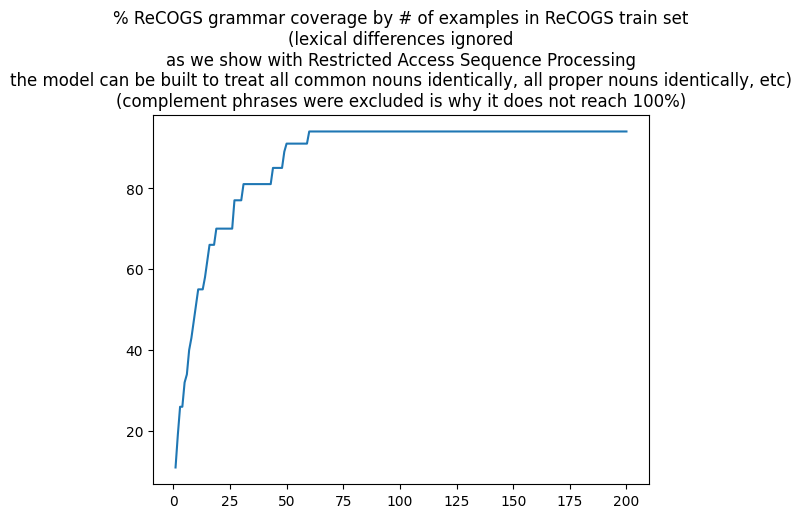
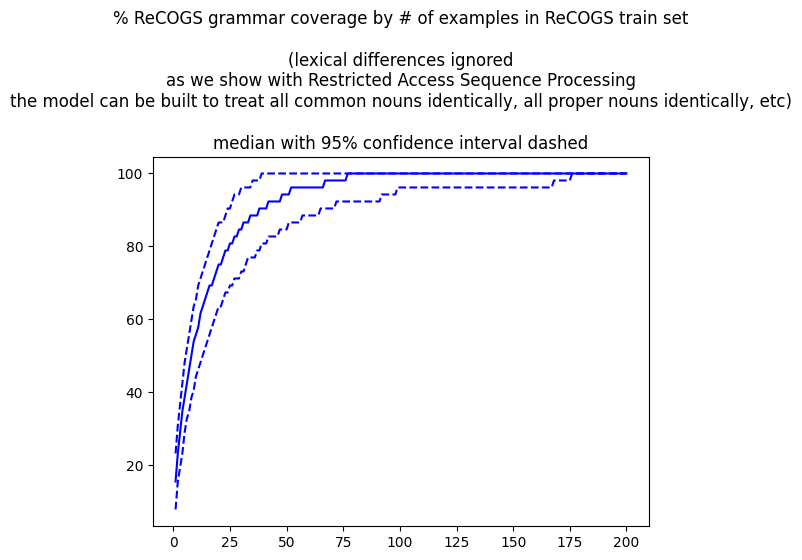
Update README.md following PR#7 and an updated grammar coverage figure

diff --git a/README.md b/README.md
@@ -10,26 +10,27 @@ Programs in this folder can be interpreted using Weiss et al 2021's RASP interpr
 
 **Update: There is an associated unpublished research paper which is in early stages at https://raw.githubusercontent.com/willy-b/RASP-for-ReCOGS/main/rasp-for-recogs_pos-wbruns-2024-draft.pdf .**
 
+**Copies of evaluation results notebooks and a comparison with Wu et al 2023 Transformer baselines trained from scratch are also checked in at https://github.com/willy-b/RASP-for-ReCOGS/tree/main/supplemental_data#analysis-and-evaluation-notebooks .**
+
 This section describes a RASP model under development to perform the ReCOGS_pos task (see Wu et al 2023, "ReCOGS: How Incidental Details of a Logical Form Overshadow an Evaluation of Semantic Interpretation", https://arxiv.org/abs/2303.13716 for task description) to try to prove-by-construction that a Transformer can learn it in a compositional, systematic, length generalizing way and try to understand why some errors are observed.
 
-You can run a demo and see the autoregressive output 
+You can run a demo and see the autoregressive output on the training set
 
-(or just visit https://colab.research.google.com/drive/1FS4tucZ92YR6VmhSva9pJekm2X7nnHWP?usp=sharing  )
+(or just visit e.g. https://colab.research.google.com/drive/1q-24YGWYX2zo7N50q69Y8jg5Kcb_0ph4?usp=sharing for a full dev set evaluation )
 
 ```
 git clone https://github.com/willy-b/learning-rasp.git
-python recogs_examples_in_rasp.py 
+cd learning-rasp
+python recogs_examples_in_rasp.py # runs only 5 examples on training set by default, you can run more examples or evaluate on dev/test/gen by using commandline arguments (see file)
 ```
 
-The script will show performance on Wu et al 2023 ReCOGS_pos data by default, run with "--use_dev_split", "--use_gen_split" , or "--use_test_split" to see it run on those and give a running score every row.
+The script will show performance on Wu et al 2023 ReCOGS_pos training data by default, run with "--use_dev_split", "--use_gen_split" , or "--use_test_split" to see it run on those and give a running score every row.
 
 ![](sentences_and_lfs_and_lf_graph.png)
 
-For ReCOGS, intending to perform well on Semantic Exact Match, we took a simple, flat, non-tree, non-recursive (except for decoder loop) approach which was able to get 100% on the full test set* first try (  word-level token Restricted Access Sequence Processing solution: https://github.com/willy-b/learning-rasp/blob/e97282e18b07004bf714b5c9bb5883090a2ff8e3/word-level-pos-tokens-recogs-style-decoder-loop.rasp ).
+For ReCOGS, intending to perform well on Semantic Exact Match, we took a simple, flat, non-tree, non-recursive (except for decoder loop) approach which was able to get 100% on the full test set first try: https://colab.research.google.com/drive/1N7F-nc9GVnoC_9dBVdNT02SBiBcMbgy-?usp=sharing .
 
-(* complement phrase examples were not tested in first run as that was omitted from the grammar in the first version of this project, but has been successfully added in upcoming https://github.com/willy-b/learning-rasp/pull/7 with first test run going now, see link on PR.)
-
-(String Exact Match is supported in upcoming https://github.com/willy-b/learning-rasp/pull/7 , where a semantically irrelevant reordering of v_inf_taking_to_v_inf that would pass Semantic Exact Match but not String Exact Match was updated in the RASP so that EM could be reported when https://github.com/willy-b/learning-rasp/pull/7 merges.)
+We also report String Exact Match since https://github.com/willy-b/learning-rasp/pull/7 (Semantic Exact Match is more forgiving, ignoring reorderings of the logical form that do not change the semantics).
 
 We took the RASP native sequence tokens, and first did a Transformer learned-embedding compatible operation and created 1 part-of-speech and 4 extra verb-type sequences (because each word in the COGS vocabulary may actually serve multiple POS roles; up to four different verb types as in the case of "liked" 
 
@@ -68,9 +69,8 @@ use the full details put in Lark format by ( Klinger et al 2024 , https://arxiv.
 and convert it ourselves to a format compatible with ( Zeller et al 2023, https://www.fuzzingbook.org/html/GrammarCoverageFuzzer.html ) and use their TrackingGrammarCoverageFuzzer to generate the set of all expansions of the COGS grammar. 
 
 Note that grammar coverage lets us consider after each training example what could possibly have been learned about the grammar.
-For example, we can use this to see that before we reach 75 examples of the ReCOGS training set, 100% grammar coverage has been reached (lexical differences ignored (we treat all words within a POS identically); and complement phrases omitted in the first version) ( Zeller et al 2023, https://www.fuzzingbook.org/html/GrammarCoverageFuzzer.html ) (noting that if the model is not capable of learning certain expansions in the grammar such as `np_det pp np -> np_pp -> np`, it may need to see more variations to memorize individual cases instead):
+For example, we can use this to see that by 55 examples of the ReCOGS training set (unshuffled, no augmentations) or 77 (median; 95% confidence interval, n=1000 random shuffles: 39 to 161) examples of the ReCOGS training set (shuffled, no augmentations), 100% grammar coverage is reached (lexical differences ignored) (we treat all words within a POS identically) (for description of grammer coverage see Zeller et al 2023, https://www.fuzzingbook.org/html/GrammarCoverageFuzzer.html ) (noting that if the model is not capable of learning certain expansions in the grammar such as `np_det pp np -> np_pp -> np`, as is actually true for our RASP model and we hypothesis for the Wu et al 2023 baseline Transformer it will need to see more variations to memorize individual cases instead):
 
-(update: complement phrases are included in upcoming PR https://github.com/willy-b/learning-rasp/pull/7 )
 
 ![](grammar_coverage_by_number_of_recogs_training_examples_lexical_differences_ignored.png)
 
@@ -78,7 +78,10 @@ This confirms that if one already knows parts of speech and verb types for words
 
 Thus, we can be more efficient than using the ReCOGS training set for our RASP model built by hand since we our solution uses a manual embedding via a dictionary mapping words to part-of-speech and verb-type, that ensures all words within a part of speech are treated identically (in real world learned embeddings/pretraining or a GloVe embedding would be used to solve this step; again (Tenney et al 2019, https://arxiv.org/abs/1905.05950 ) confirm BERT, a pre-trained Transformer model in wide use, has part-of-speech information available at the earliest layers.).
 
-We generated 20 sentences which cover 100\% of the COGS input grammar ( Zeller et al 2023, https://www.fuzzingbook.org/html/GrammarCoverageFuzzer.html ) excluding complement phrases (those are supported in upcoming https://github.com/willy-b/learning-rasp/pull/7 ) under those constraints (under the context free grammar, tree based assumption which turns out to be incorrect just for prepositional phrases):
+We generated 21 sentences which cover 100\% of the COGS input grammar ( Zeller et al 2023, https://www.fuzzingbook.org/html/GrammarCoverageFuzzer.html ) under those constraints (under the context free grammar, tree based assumption which turns out to be incorrect just for prepositional phrases):
+
+(note that if the prepositional phrase and complement phrase cases were added into one or two of 19 base grammar form examples only 19 total examples are actually needed, but we keep the recursive grammar parts separated for clarity here)
+
 ```
 "the girl was painted", 
 "a boy painted",
@@ -101,6 +104,7 @@ We generated 20 sentences which cover 100\% of the COGS input grammar ( Zeller e
 "the car was sold to the customer",
 
 "a boy painted the girl in a house"
+"the girl noticed that a boy painted the girl"
 ```
 
 The first 19 of those sentences are present in our RASP program code ( https://github.com/willy-b/learning-rasp/blob/
@@ -109,7 +113,7 @@ For each of these sentences we add a group of RASP operations corresponding to a
 
 Those 19 examples reflect the only rules for handling non-prepositional grammar rules. 
 
-To handle prepositional phrases in a flat solution, we find it necessary even on the training data to add a rule that ignores noun phrases preceded by a prepositonal phrase (ignore "pp np") when searching for noun indexes to report in relationships (agent, theme, recipient, etc), and we loosen verb type templates to allow a gap for any prepositional phrase to be inserted (this was not done in every possible case manually within 2 week project work period which is why we do not get 100\% in that one split, see next results section). We shall see encountering this issue in RASP and the grammar analysis suggesting a non-tree solution is learned by the Transformer appears to lead us to be able to predict 100% of a certain category of errors a baseline Wu et al 2023 ( https://arxiv.org/abs/2303.13716 ) Encoder-Decoder Transformer makes (in a paper in a class under review) present in our RASP solution before adding the rule to ignore "pp np" (based on training examples but biased to learn it generally) (the RASP model got 100% on the ReCOGS_pos test set first try, separate notebook public but not yet linked here, though you can use the python script in this folder to run that test yourself as well).
+To handle prepositional phrases in a flat solution, we find it necessary even on the training data to add a rule that ignores noun phrases preceded by a prepositonal phrase (ignore "pp np") when searching for noun indexes to report in relationships (agent, theme, recipient, etc), and we loosen verb type templates to allow a gap for any prepositional phrase to be inserted (this was not done in every possible case manually within the original 2 week project work period which is why we did not get 100% in that one split, see paper results section). We shall see encountering this issue in RASP and the grammar analysis suggesting a non-tree solution is learned by the Transformer appears to lead us to be able to predict 100% of a certain category of errors a baseline Wu et al 2023 ( https://arxiv.org/abs/2303.13716 ) Encoder-Decoder Transformer makes for most model instances (96% of errors overall) present in our RASP solution before adding the rule to ignore "pp np" (based on training examples but biased to learn it generally) (the RASP model got 100% on the ReCOGS_pos test set first try, see https://colab.research.google.com/drive/1N7F-nc9GVnoC_9dBVdNT02SBiBcMbgy-?usp=sharing , though you can use the python script in this folder to run that test yourself as well).
 
 
 Here is an example of a template for one of these sentences:
@@ -141,9 +145,9 @@ np_v_unerg = aggregate(np_after_mask and v_unerg_mask, 1);
 
 **These patterns are not causal because their use/input/output is masked to the input section of the sequence, so would take part in the Encoder of the Encoder-Decoder only**(**all operations outside the input mask in the word-level token RASP solution used in this paper are directly or indirectly causally masked** and we built symbol by symbol in a causal autoregressive way). **We could have added an explicit causal mask to each operation but for efficiency and simplicity of the code omitted it when we are doing it implicitly by taking only the last sequence position (we also acausally aggregate so that all sequence positions have the same value as the last sequence position to make it easier to read the output -- RASP interpreter will just print it as one position if they are all equal and we only take one position).**
 
-Also, the author thinks many of these RASP steps could be consolidated. The goal here was to first prove by construction that a non-recursive, flat RASP program could get approximately 100\% Semantic Exact Match on all the ReCOGS generalization splits (we only missed one split by a little due to two week time constraint, insufficient time to add all prepositional phrase handling rules).
+Also, the author thinks many of these RASP steps could be consolidated. The goal here was to first prove by construction that a non-recursive, flat RASP program could get approximately 100% Semantic Exact Match on all the ReCOGS generalization splits (we only missed one split by a little due to two week time constraint, insufficient time to add all prepositional phrase handling rules).
 
-Introduction of variables at the beginning of the ReCOGS logical form (e.g. in the logical form for "a boy painted the girl", we have "boy ( 1 ) ; * girl ( 4 ) ; painted ( 2 ) AND agent ( 2 , 1 ) AND theme ( 2 , 4 )" , the variable introduction is "boy ( 1 ) ; * girl ( 4 ) ; painted ( 2 )" before the "AND"). A more complete solution that handles not just prepositional phrase recursion (we score approximately 100\% with the solution we are describing here) but complement phrases and complement phrase recursion was omitted to fit within the 2 week project work period, but is believed by the author to be able to be easily done using the same technique (will be done in follow up work) (update: complete in https://github.com/willy-b/learning-rasp/pull/7 ). In that approach one would need to loop over the verbs and output the related relationships. Here we simplified and just sorted the input sequence with nouns before verbs and determiners, fillers last (with determiners and fillers not having any corresponding entry in the output sequence). We then count nouns and verbs in the input and count nouns and verbs in the output and determine if we have introduced all the nouns and verbs.
+Introduction of variables at the beginning of the ReCOGS logical form (e.g. in the logical form for "a boy painted the girl", we have "boy ( 1 ) ; * girl ( 4 ) ; paint ( 2 ) AND agent ( 2 , 1 ) AND theme ( 2 , 4 )" , the variable introduction is "boy ( 1 ) ; * girl ( 4 ) ; paint ( 2 )" before the "AND"). A more complete solution that handles not just prepositional phrase recursion (we score approximately 100% with the solution we are describing here). In the description here we ignore complement phrases (see code for those details) and simplify and just sort the input sequence with nouns before verbs and determiners, fillers last (with determiners and fillers not having any corresponding entry in the output sequence). We then count nouns and verbs in the input and count nouns and verbs in the output and determine if we have introduced all the nouns and verbs.
 
 Example counting how many nouns and verbs we have output (introduced as variables) so far (to determine what we need to output for next token):
 ```
@@ -193,8 +197,8 @@ As you can see above, if we have not introduced all the variables, we determine 
 If we are done introducing variables at that point in the decoder loop, we move on, 
 and attention head compatible operations recognize templates in the five parallel part-of-speech / verb-type per location sequences for "v_trans_omissible_p1", "v_trans_omissible_p2", "v_trans_omissible_pp_p1", "v_trans_omissible_pp_p2", "v_trans_not_omissible", "v_trans_not_omissible_pp_p1", "v_trans_not_omissible_pp_p2", "v_cp_taking", "v_inf_taking", "v_unacc_p1", "v_unacc_p2", "v_unacc_pp_p1", "v_unacc_pp_p2", "v_unerg", "v_dat_p2", "v_dat_pp_p1", "v_dat_pp_p2",  "v_dat_pp_p3",  "v_dat_pp_p4".
 
-Here are a couple of examples of patterns, to see how it looks if we support 1 verb pattern per input (no complement phrase recursion; which can be easily handled how we handle other things we loop over, looping over current phrase and masking and processing), which is sufficient to get approximately 100\% on all entries that do not use complement phrases (e.g. "so-and-so noticed that (full input here)"):
-(update: complement phrases are supported in upcoming PR https://github.com/willy-b/learning-rasp/pull/7 )
+Here are a couple of examples of patterns, to see how it looks if we support 1 verb pattern per input (no complement phrase recursion; which can be easily handled how we handle other things we loop over, looping over current phrase and masking and processing, see actual code for details), which is sufficient to get approximately 100\% on all entries that do not use complement phrases (e.g. "so-and-so noticed that (full input here)"):
+(update: complement phrases are supported in the .rasp file)
 
 ```
 # define the pattern
@@ -272,7 +276,7 @@ def template_size(template_name) {
 
 Details are in the code, but we compute at the last sequence position (in parallel) the number of relationships output for the verb so far, and for the current relationship which token within that multi-token process (e.g. the word "agent" or the open parenthesis "(" or the left index, or the comma, or right index, close parenthesis ")", "AND", etc) we are on.
 
-Like we computed at the last sequence position the number of nouns and verbs in the output once we are finished introducing nouns and verbs (this would be a little different with complement phrases, see https://github.com/willy-b/learning-rasp/pull/7 where CP are supported), we compute the number of agent,theme,recipient,xcomp,ccomp entries in the output:
+Like we computed at the last sequence position the number of nouns and verbs in the output once we are finished introducing nouns and verbs (this is a little different in the actual code with complement phrases, see the actual .rasp file code for details), we compute the number of agent,theme,recipient,xcomp,ccomp entries in the output:
 
 ```
 atrxc_in_output_sequence = OUTPUT_MASK*(indicator(tokens == "agent" 
@@ -419,11 +423,12 @@ after_intro_num_tokens_in_output_excluding_asterisks - template_size(template_na
 
 See code for full details. For all steps only the RASP outputs aligned with the input sequence (Encoder part of derived Transformer) or the very last sequence output (for next token in autoregressive generation) were used. For convenience of reading the aggregate operator was usually used acausally to assign all sequence outputs before the last one to the same value as the last (so only one value would be displayed).
 
-You can run a demo and see the autoregressive output 
+You can run a demo and see the autoregressive output on the training set
 
-(or just visit https://colab.research.google.com/drive/1FS4tucZ92YR6VmhSva9pJekm2X7nnHWP?usp=sharing  )
+(or just visit e.g. https://colab.research.google.com/drive/1q-24YGWYX2zo7N50q69Y8jg5Kcb_0ph4?usp=sharing for a full dev set evaluation )
 
 ```
 git clone https://github.com/willy-b/learning-rasp.git
-python recogs_examples_in_rasp.py
+cd learning-rasp
+python recogs_examples_in_rasp.py # runs only 5 examples on training set by default, you can run more examples or evaluate on dev/test/gen by using commandline arguments (see file)
 ```
